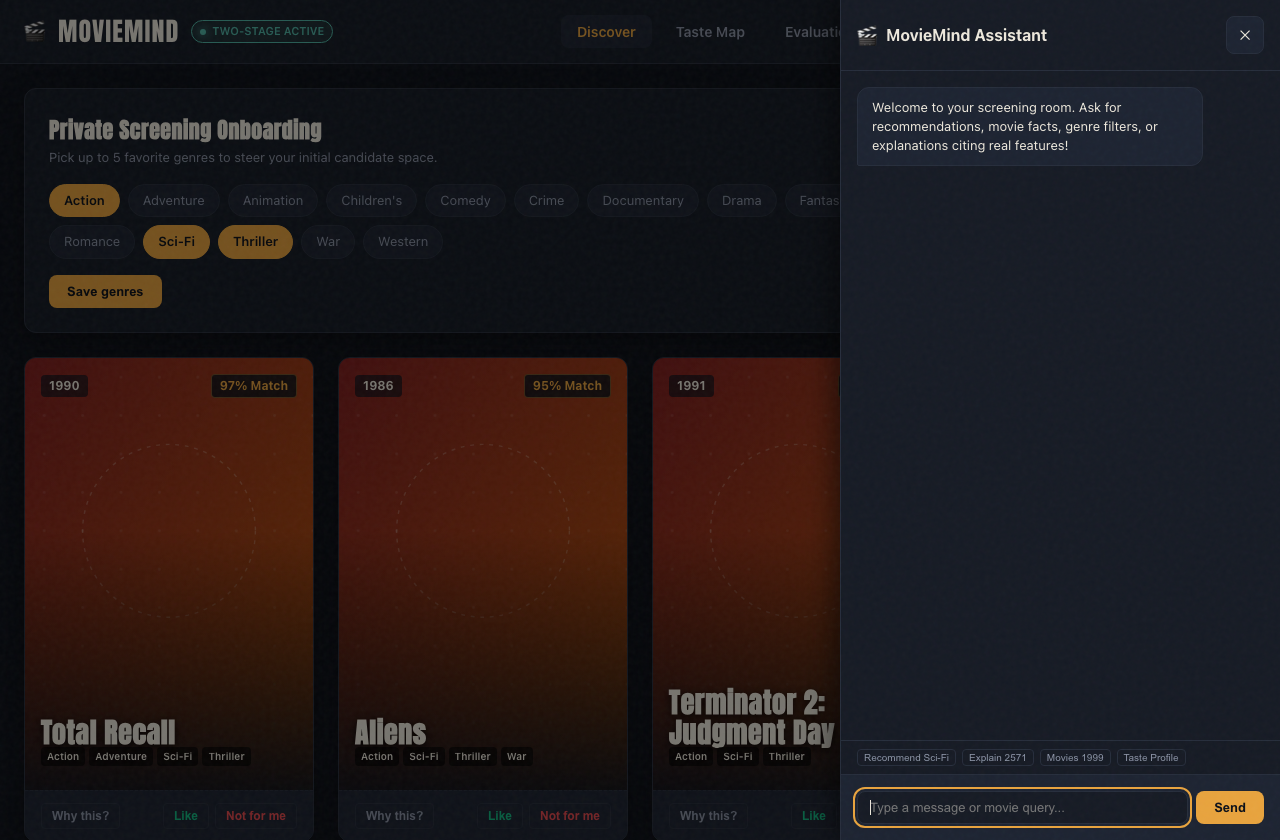
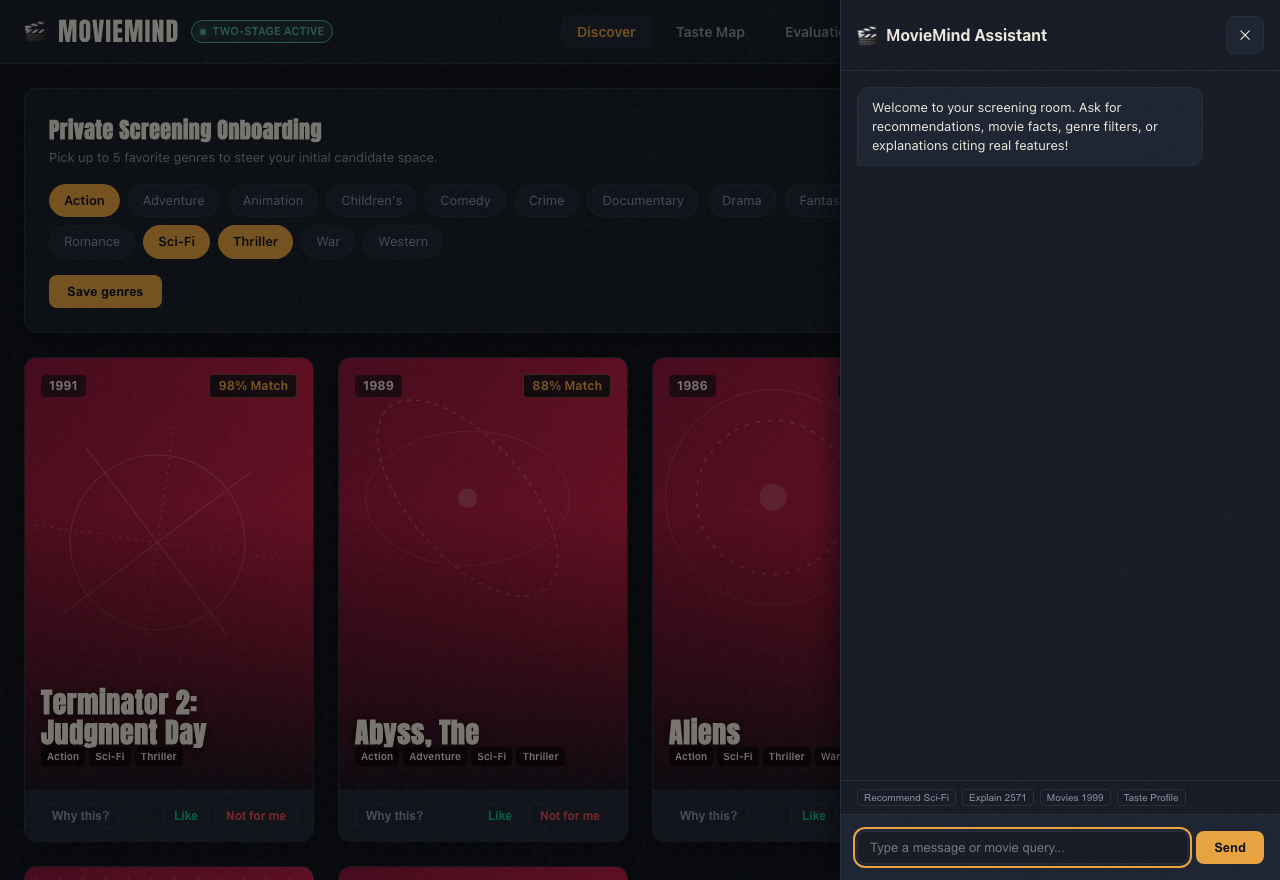
docs(ui): refresh interface screenshots with expanded card trace and poster hues

diff --git a/app/static/app.js b/app/static/app.js
@@ -149,6 +149,10 @@ document.addEventListener('DOMContentLoaded', async () => {
   if (window.location.search.includes('chat=1')) {
     openChatDrawer();
   }
+  if (window.location.search.includes('expand=1') && state.movies.length > 0) {
+    toggleWhy(state.movies[0].movie_id);
+    toggleTrace(state.movies[0].movie_id);
+  }
 });
 
 // Theme Management
